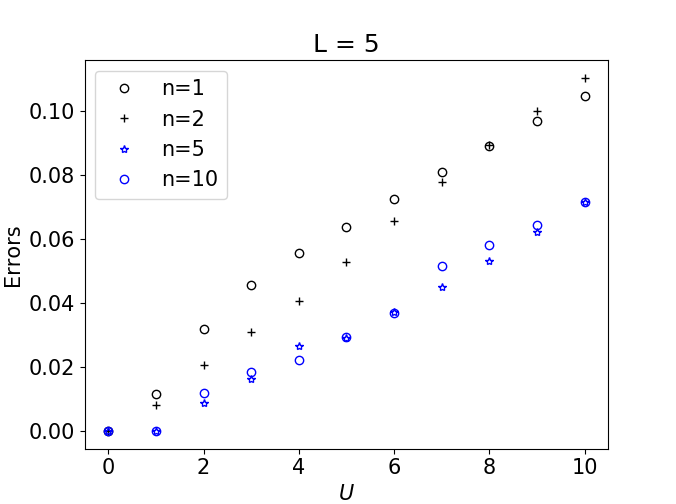
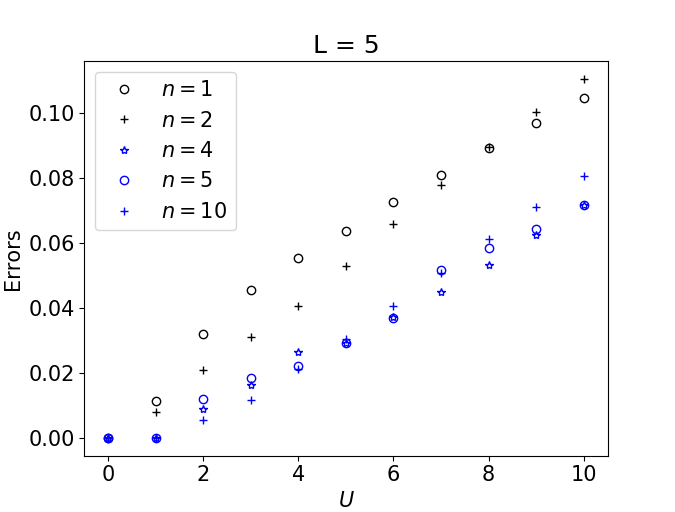
final plots

diff --git a/Figures/additional files/grafs2.py b/Figures/additional files/grafs2.py
@@ -41,7 +41,7 @@ FI1 = np.array(FI1)
 Energies = [[-0.92405705,-0.57272512,-0.2065959,0.12279264,0.43598219,0.73812978,1.03374658,1.31174677,1.59962867,1.88738817,2.17367119],
 [-0.86983235,-0.57638586,-0.21299124,0.12258634,0.43601326,  0.73909269,1.03756871,1.33194044,1.62345655,1.91282727,2.20079337],
 [-0.93143546,-0.57979587,-0.22417352,0.10811932,0.42122094,  0.72841559,1.03082219,  1.32882719,  1.62391515,  1.91609649,  2.20651209],[-0.94098103, -0.571175,   -0.23604188,  0.09330819,  0.40702377,  0.70455399,1.00234736,  1.29597855,  1.58747221,  1.87834978,  2.14811866],[-0.93637405, -0.56929364, -0.23307049,  0.09533294,  0.40270606,  0.70476568,1.00186343,  1.3025229,  1.59272985,  1.88029832,  2.16790576],[-0.9332802,  -0.57103082, -0.23948335,  0.08876872,  0.40165722,  0.70579147,
-  1.00572011,  1.301889,    1.59570221 , 1.88717199 , 2.17692792],[-0.96379719, -0.58783448, -0.24486551,  0.07706183,  0.38058344,  0.67551824,0.9651096,   1.2510723,   1.53449944,  1.81607022,  2.09629974]]
+  1.00572011,  1.301889,    1.59570221 , 1.88717199 , 2.17692792],[-0.96379719, -0.58783448, -0.24486551,  0.07706183,  0.38058344,  0.67551824,0.9651096,   1.2510723,   1.53449944,  1.81607022,  2.09629974],[-0.8833312,-0.57971368,-0.2240458,0.11476589,  0.43147877,  0.7334805,1.02446857,  1.32097594 , 1.62011153 , 1.90903546 , 2.19548789]]
 
 Ene = np.array(Energies)
 
@@ -53,16 +53,18 @@ for j in range(2):
    Energies[3][j] = Energies[6][j]
    Energies[4][j] = Energies[6][j]
    Energies[5][j] = Energies[6][j]
+   Energies[7][j] = Energies[6][j]
 
 plt.rc('axes', labelsize=15)
 plt.rc('font', size=15)  
 plt.plot(FI1, Energies[6],'r-', mfc='none',label='exact')
-plt.plot(FI1, Energies[1],'ko', mfc='none',label='n=1')
-plt.plot(FI1, Energies[2],'k+',mfc='none', label='n=2')
-plt.plot(FI1, Energies[3],'b*',mfc='none', label='n=5')
-plt.plot(FI1, Energies[4],'bo',mfc='none', label='n=10')
-plt.plot(FI1, Energies[5],'b+',mfc='none', label='n=20')
+plt.plot(FI1, Energies[1],'ko', mfc='none',label='$n=1$')
+plt.plot(FI1, Energies[2],'k+',mfc='none', label='$n=2$')
+plt.plot(FI1, Energies[3],'kx',mfc='none', label='$n=4$')
+plt.plot(FI1, Energies[4],'b*',mfc='none', label='$n=5$')
+plt.plot(FI1, Energies[5],'bo',mfc='none', label='$n=10$')
 plt.legend(prop={"size":15},loc='upper left')
+plt.xlabel("$U$")
 plt.ylabel("Energies")
 plt.title("L = 5")
 plt.show()
@@ -76,15 +78,18 @@ for j in range(11):
    Energies[3][j] = (Energies[3][j]-Energies[6][j])
    Energies[4][j] = (Energies[4][j]-Energies[6][j])
    Energies[5][j] = (Energies[5][j]-Energies[6][j])
+   Energies[7][j] = (Energies[7][j]-Energies[6][j])
 
 plt.rc('axes', labelsize=15)
 plt.rc('font', size=15)  
-plt.plot(FI1, Energies[1],'ko', mfc='none',label='n=1')
-plt.plot(FI1, Energies[2],'k+',mfc='none', label='n=2')
-plt.plot(FI1, Energies[3],'b*',mfc='none', label='n=5')
-plt.plot(FI1, Energies[4],'bo',mfc='none', label='n=10')
-plt.plot(FI1, Energies[5],'b+',mfc='none', label='n=20')
+plt.plot(FI1, Energies[1],'ko', mfc='none',label='$n=1$')
+plt.plot(FI1, Energies[2],'k+',mfc='none', label='$n=2$')
+plt.plot(FI1, Energies[3],'b*',mfc='none', label='$n=4$')
+plt.plot(FI1, Energies[4],'bo',mfc='none', label='$n=5$')
+plt.plot(FI1, Energies[5],'b+',mfc='none', label='$n=10$')
 plt.legend(prop={"size":15},loc='upper left')
+plt.xlabel("$U$")
+plt.title("L = 5")
 plt.ylabel("Errors")
 plt.show()
 
